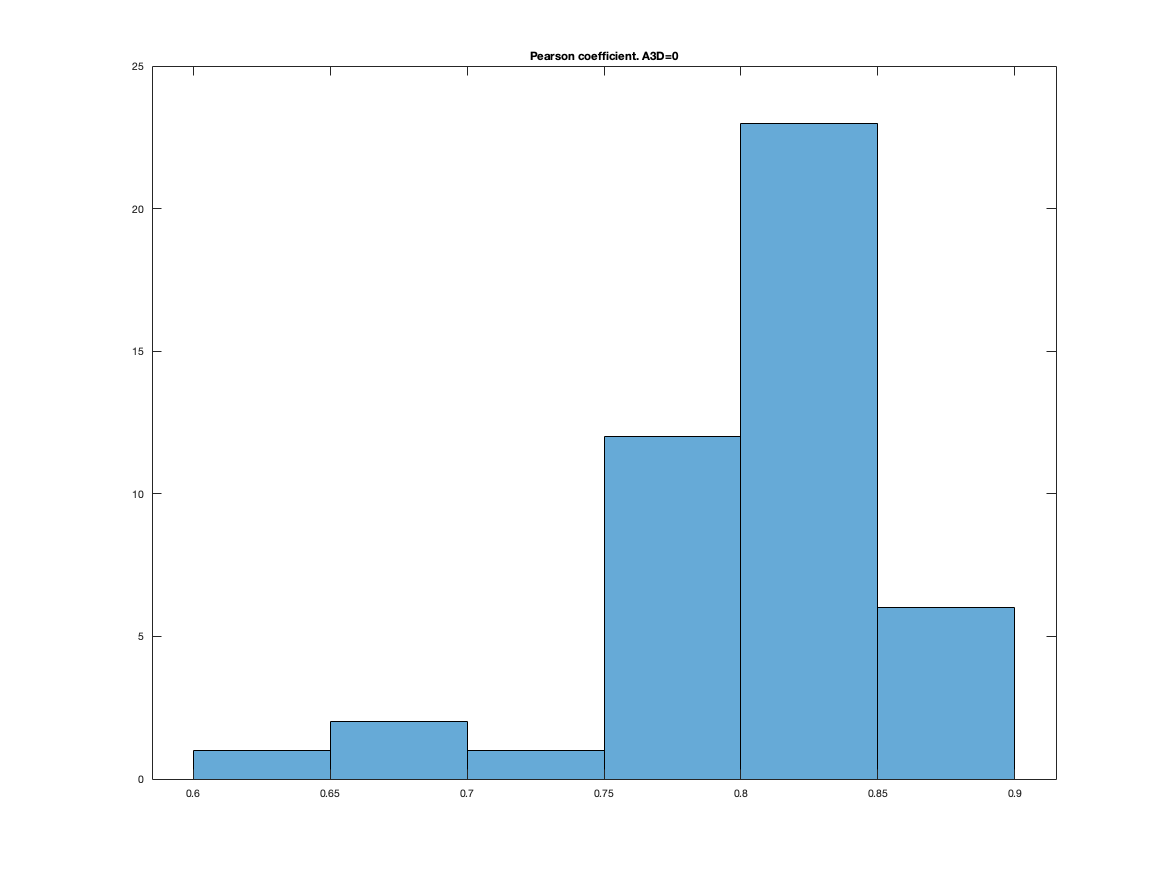
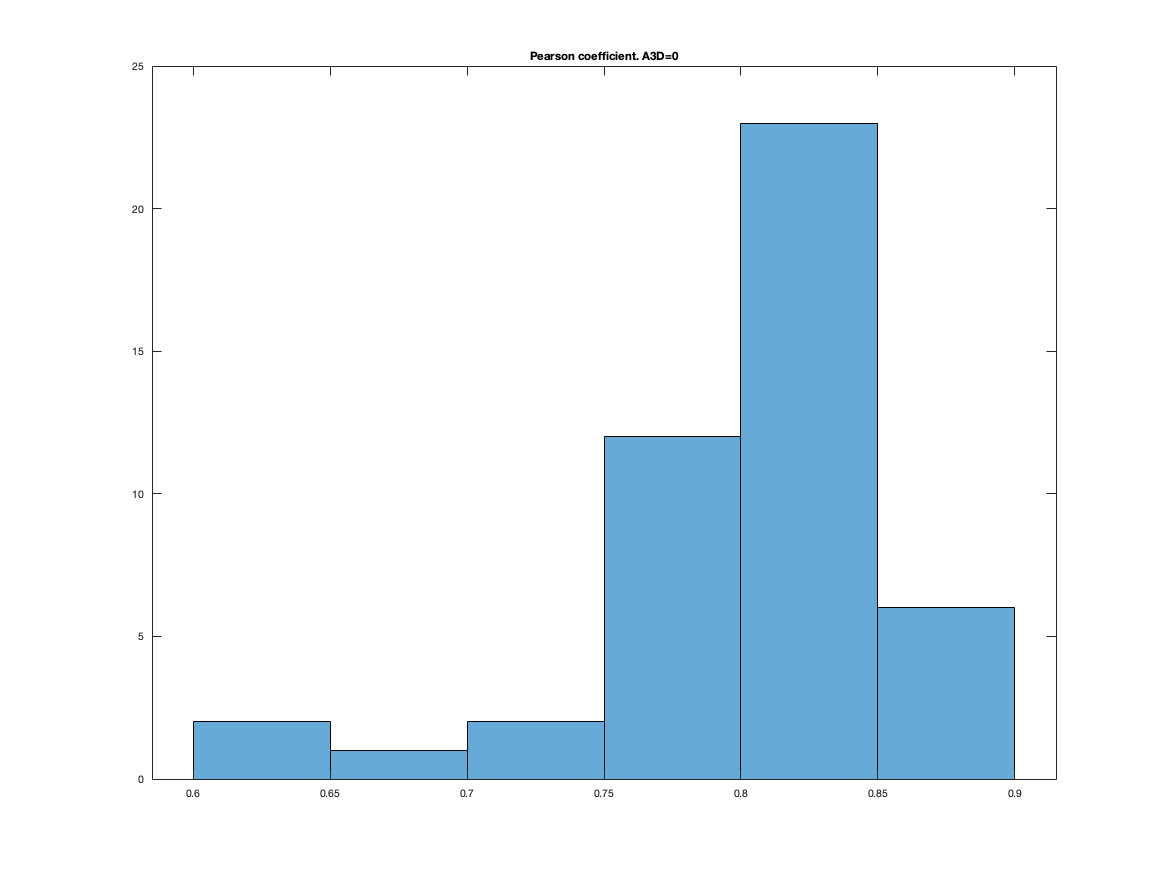
Add files via upload

Changed region(s): [[0.1542, 0.8023, 0.5244, 0.864]]

diff --git a/Table3_Table4_Generator.m b/Table3_Table4_Generator.m
@@ -6,23 +6,26 @@ load('Table1.txt');
 M=Table2;
 Values=Table1;
 
-x1=Values(M(:,1)==1); %mean(x1)
-x2=Values(M(:,2)==1);
-x3=Values(M(:,3)==1);
-x4=Values(M(:,4)==1);
-x5=Values(M(:,5)==1);
-x6=Values(M(:,6)==1);
-x7=Values(M(:,7)==1);
-x8=Values(M(:,8)==1);
+% Person coeficient:
+v=1
 
-y1=Values(M(:,1)==0); %mean(y1)
-y2=Values(M(:,2)==0);
-y3=Values(M(:,3)==0);
-y4=Values(M(:,4)==0);
-y5=Values(M(:,5)==0);
-y6=Values(M(:,6)==0);
-y7=Values(M(:,7)==0);
-y8=Values(M(:,8)==0);
+x1=Values(M(:,1)==1,v); %mean(x1)
+x2=Values(M(:,2)==1,v);
+x3=Values(M(:,3)==1,v);
+x4=Values(M(:,4)==1,v);
+x5=Values(M(:,5)==1,v);
+x6=Values(M(:,6)==1,v);
+x7=Values(M(:,7)==1,v);
+x8=Values(M(:,8)==1,v);
+
+y1=Values(M(:,1)==0,v); %mean(y1)
+y2=Values(M(:,2)==0,v);
+y3=Values(M(:,3)==0,v);
+y4=Values(M(:,4)==0,v);
+y5=Values(M(:,5)==0,v);
+y6=Values(M(:,6)==0,v);
+y7=Values(M(:,7)==0,v);
+y8=Values(M(:,8)==0,v);
 
 size_x(1)=size(x1,1);
 size_y(1)=size(y1,1);
@@ -128,7 +131,7 @@ title('Pearson coefficient. BT=0')
 saveas(gcf,'Pc_BT0.png')
 
 
-%%%%%%%% TABLE 3 GENERATOR
+%%%%%%%% TABLE 4 GENERATOR
 
 h=[]; p=[]; ci=zeros(8,2); stats=[];
 [h(1),p(1),ci(1,:),~] = ttest2(x1, y1, 'Tail','right'); 
@@ -142,7 +145,7 @@ h=[]; p=[]; ci=zeros(8,2); stats=[];
 
 Table3=[h',p']
 
-%%%%%%%% TABLE 4 GENERATOR
+%%%%%%%% TABLE 5 GENERATOR
 
 X=M;
 [num_obs, num_vars] = size(X);
